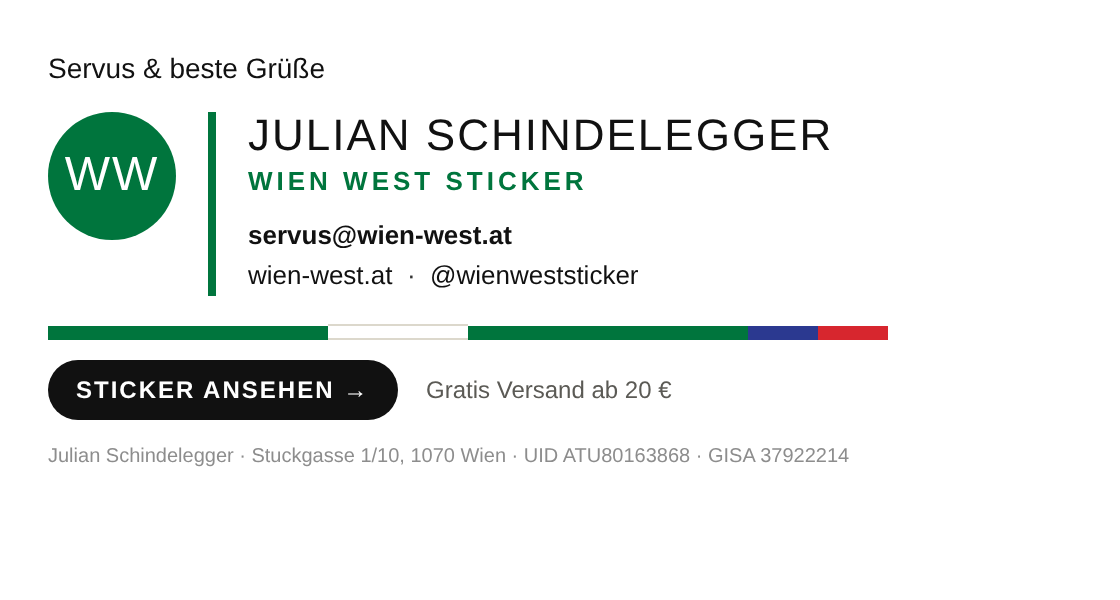
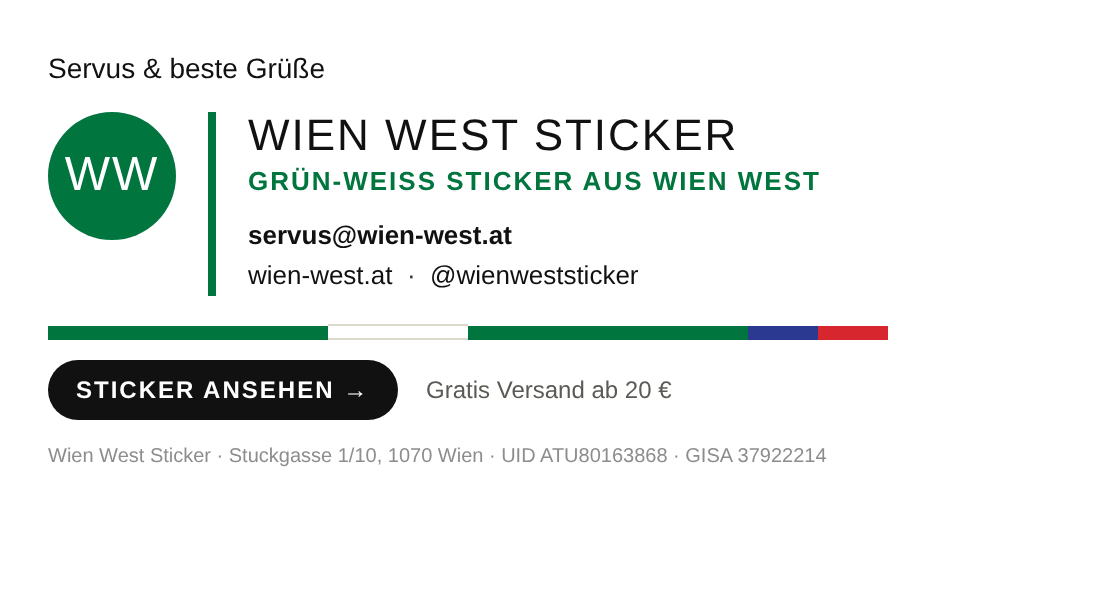
Signatur ohne Namen
Claude-Session: https://claude.ai/code/session_01FF2MfsrsB5CXejmzawvVj5

Changed region(s): [[0.2188, 0.18, 0.75, 0.33], [0.0312, 0.75, 0.75, 0.78]]

diff --git a/docs/mail-signatur.html b/docs/mail-signatur.html
@@ -19,8 +19,8 @@
           <!-- grüne Trennlinie -->
           <td width="4" bgcolor="#00753d" style="width:4px;background:#00753d;font-size:0;line-height:0;">&nbsp;</td>
           <td valign="top" style="padding:0 0 0 16px;">
-            <div style="font-family:Impact,'Arial Narrow Bold','Arial Black',sans-serif;font-size:22px;line-height:24px;color:#111111;text-transform:uppercase;letter-spacing:1px;">Julian Schindelegger</div>
-            <div style="font-size:13px;line-height:18px;color:#00753d;font-weight:bold;text-transform:uppercase;letter-spacing:2px;padding:2px 0 8px 0;">Wien West Sticker</div>
+            <div style="font-family:Impact,'Arial Narrow Bold','Arial Black',sans-serif;font-size:22px;line-height:24px;color:#111111;text-transform:uppercase;letter-spacing:1px;">Wien West Sticker</div>
+            <div style="font-size:13px;line-height:18px;color:#00753d;font-weight:bold;text-transform:uppercase;letter-spacing:1px;padding:2px 0 8px 0;">Grün-Weiß Sticker aus Wien West</div>
             <div style="font-size:13px;line-height:20px;color:#333333;">
               <a href="mailto:servus@wien-west.at" style="color:#111111;text-decoration:none;font-weight:bold;">servus@wien-west.at</a><br>
               <a href="https://wien-west.at" style="color:#111111;text-decoration:none;">wien-west.at</a> &nbsp;·&nbsp; <a href="https://instagram.com/wienweststicker" style="color:#111111;text-decoration:none;">@wienweststicker</a>
@@ -51,7 +51,7 @@
     </td>
   </tr>
   <tr>
-    <td style="padding:12px 0 0 0;font-size:10px;line-height:14px;color:#8d8d8d;">Julian Schindelegger · Stuckgasse 1/10, 1070 Wien · UID ATU80163868 · GISA 37922214</td>
+    <td style="padding:12px 0 0 0;font-size:10px;line-height:14px;color:#8d8d8d;">Wien West Sticker · Stuckgasse 1/10, 1070 Wien · UID ATU80163868 · GISA 37922214</td>
   </tr>
 </table>
 </body></html>
